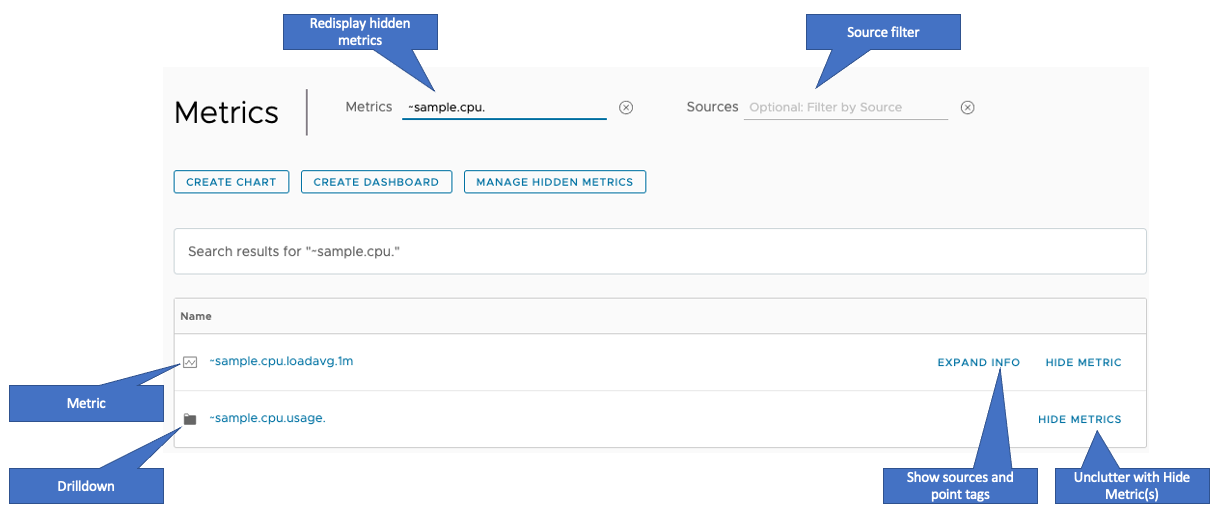
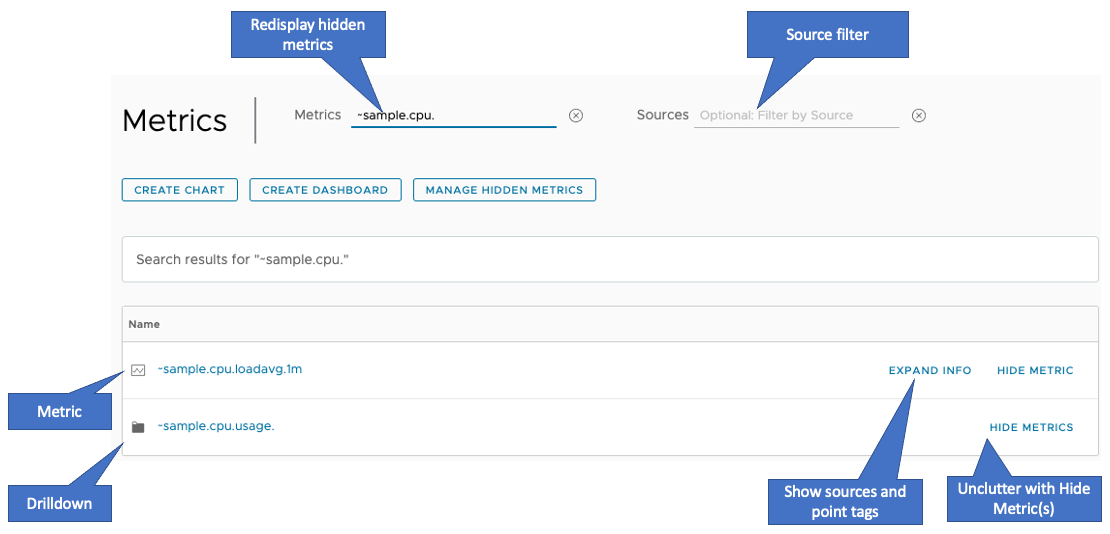
Metrics Browser update in relnotes

diff --git a/pages/doc/metrics_managing.md b/pages/doc/metrics_managing.md
@@ -7,7 +7,7 @@ permalink: metrics_managing.html
 summary: Understand metrics structure and how to explore metrics in the Metrics Browser
 ---
 
-Wavefront provides observability for several different [metric types](metric_types.html) including time series metrics, histograms, and traces/spans. This page looks at the anatomy of a time series metric and shows you how to explore it in the metrics browser.
+Wavefront provides observability for several different [metric types](metric_types.html) including time series metrics, delta counters, histograms, and traces/spans. This page looks at the anatomy of a time series metric and shows you how to explore it in the metrics browser.
 
 ## Videos
 
@@ -92,9 +92,9 @@ Select **Browse > Metrics** to display the Metrics Browser. Use the Metrics Brow
 To make search easier, you can
 * Drill down and go up the hierarchy.
 * Filter by source.
-* Hide and redisplay metrics or groups of metrics.
+* Hide and redisplay metrics or groups of metrics to unclutter your page.
 
-{% include tip.html content="If you select **Browse > Delta Counters** you can use the same browser to examine [delta counters](delta_counters.html). The process is exactly the same." %}
+{% include tip.html content="If you select **Browse > Delta Counters** you can use the same browser to examine [delta counters](delta_counters.html)." %}
 
 ![metrics browser with pointers to folder & chart icon for selection, source filter, and info button which displays sources and point tags for a metric](images/metrics_browser.png)
 
@@ -108,7 +108,7 @@ To make search easier, you can
 <ol>
 <li>Select <strong>Browse > Metrics</strong></li>
 <li>Select folder icons to drill down to individual metrics.</li>
-<li>With a metric selectd, click <strong>Info</strong> to show sources and point tags for that metric.</li>
+<li>With a metric selected, click <strong>Expand Info</strong> to show sources and point tags for that metric.</li>
 <li>Click the metric name to show a chart with that metric.</li>
 </ol></td>
 <td width="40%"><img src="/images/browse_metrics.png" alt="browse metrics"></td>

diff --git a/pages/doc/wavefront_release_notes.md b/pages/doc/wavefront_release_notes.md
@@ -13,8 +13,13 @@ This page lists new and updated features for the Wavefront service.
 * For the latest changes and releases of the **Wavefront Integrations**, see the [Integrations Release Notes](integrations_new_changed.html).
 * For  **Observability for Kubernetes**, go to the [release notes for Wavefront Collector for Kubernetes GitHub repository](https://github.com/wavefrontHQ/wavefront-collector-for-kubernetes/releases).
 
+## 2021-47.x Release Notes
 
-## 2021-46.x Release Notes 
+* Minor changes to the [Metrics Browser](metrics_managing.html#metrics-browser)
+  - Unclutter that page with **Load More** option.
+  - Accessibility improvements.
+
+## 2021-46.x Release Notes
 
 * **Integration Improvements**: November integrations are live! See [Integration Release Notes](integrations_new_changed.html#november-2021).
 * **New Doc Pages**:
